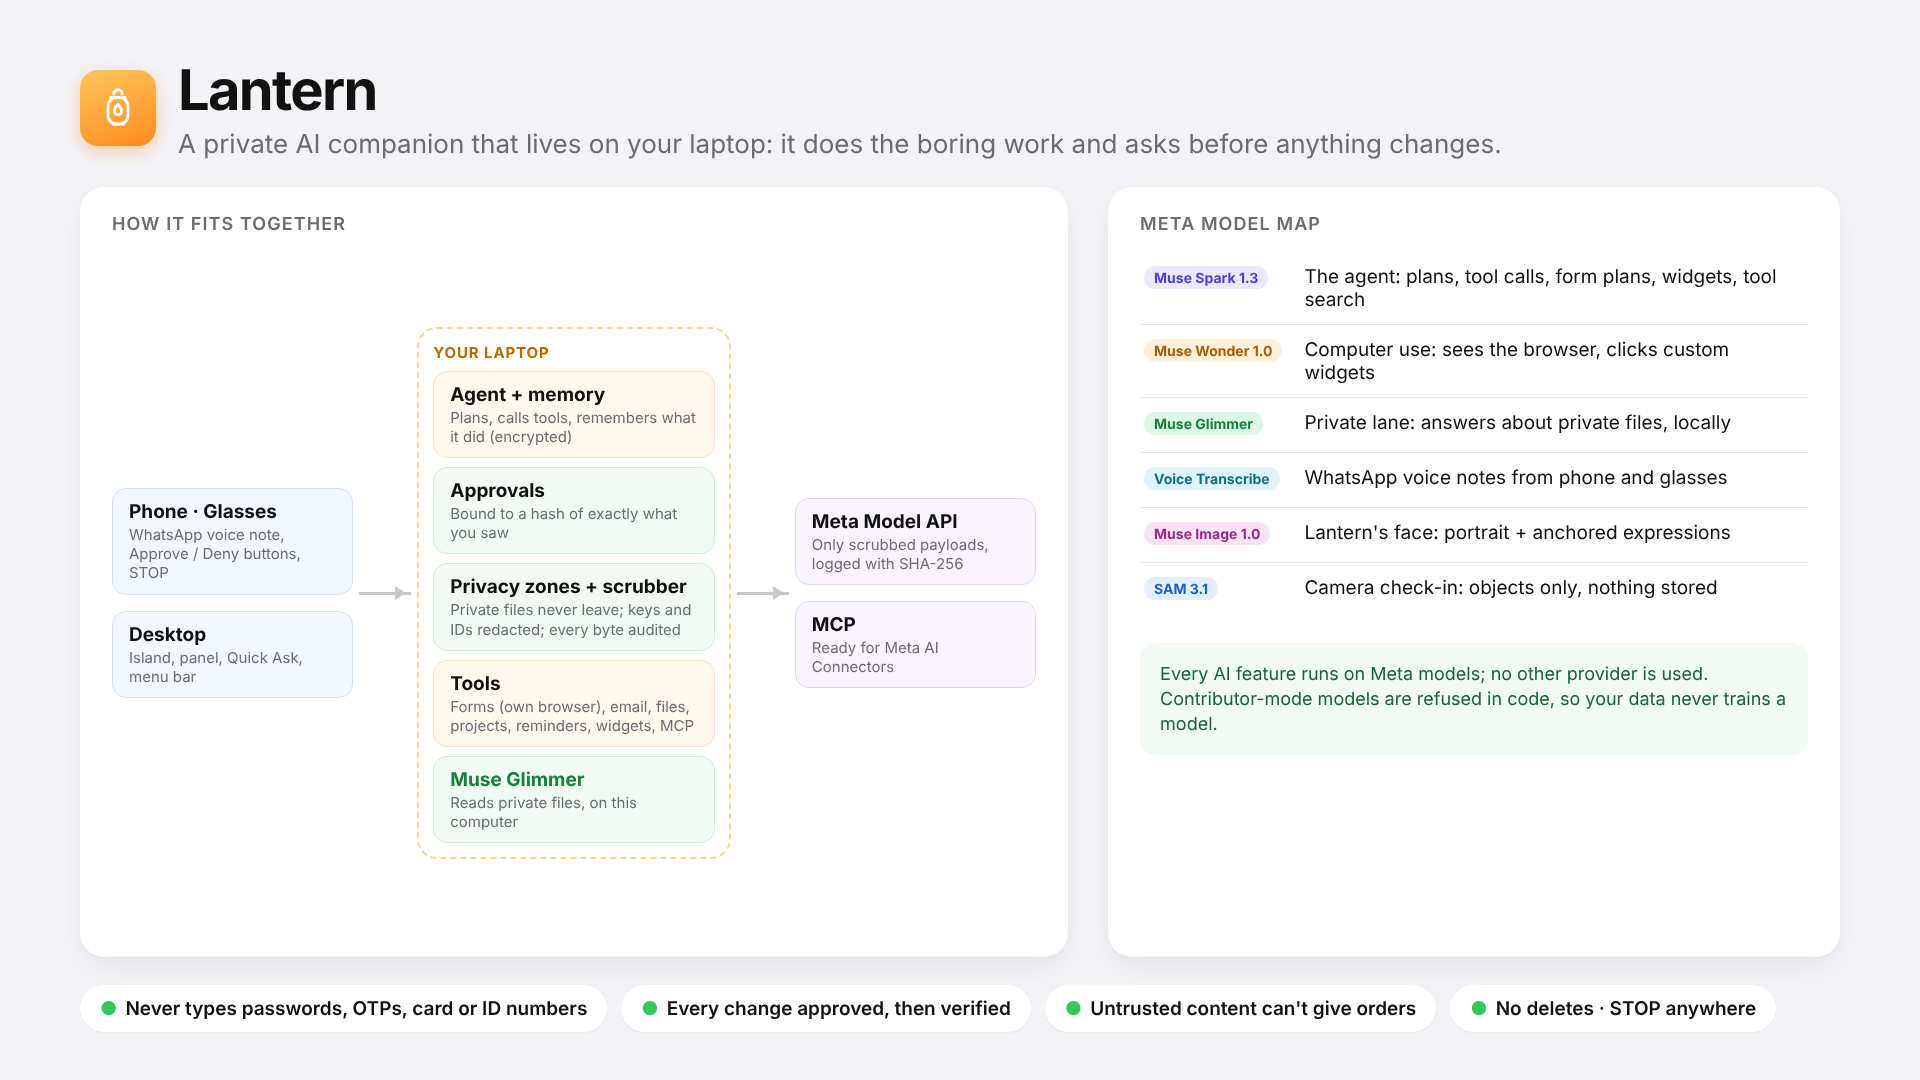
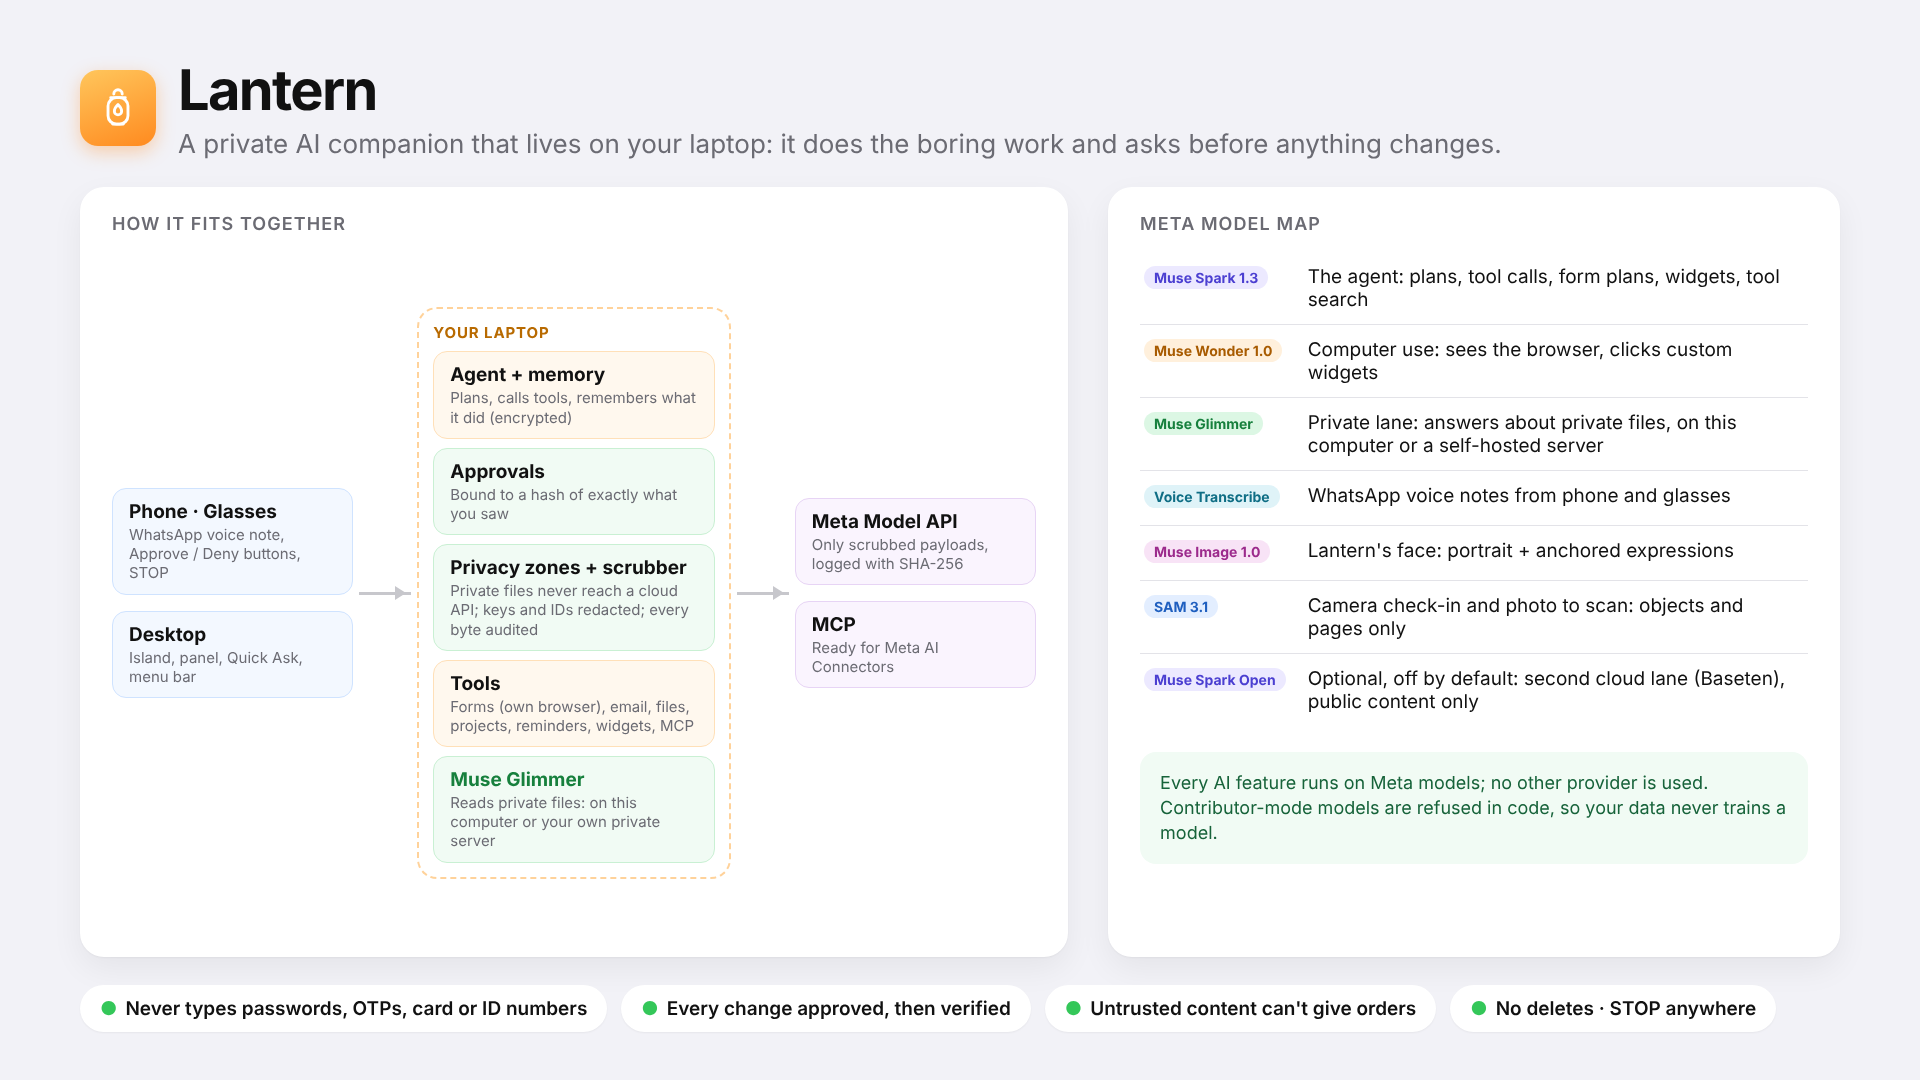
Docs: measured Oct 30 numbers, honest private-lane wording, slide names every Meta model
README: Oct 30 live results (real_run.py, phase2_live.py 6/6, Modal A10), Muse Spark Open
listed as its own optional Baseten lane (it was mislabelled as a Glimmer ID), the self-hosted
private Glimmer server in the diagram and setup. SUBMISSION.md: the private-file beat says what
is true with the self-hosted server (no cloud AI API sees the letter; it does leave the laptop),
plus an optional learn -> $0 rerun -> heal beat with measured numbers. Slide re-rendered.

Claude-Session: https://claude.ai/code/session_01KeASn7FfptgKrH1e6GmtJU

diff --git a/docs/slide/architecture.html b/docs/slide/architecture.html
@@ -65,9 +65,9 @@
           <div class="label">Your laptop</div>
           <div class="box laptop"><b>Agent + memory</b><small>Plans, calls tools, remembers what it did (encrypted)</small></div>
           <div class="box guard"><b>Approvals</b><small>Bound to a hash of exactly what you saw</small></div>
-          <div class="box guard"><b>Privacy zones + scrubber</b><small>Private files never leave; keys and IDs redacted; every byte audited</small></div>
+          <div class="box guard"><b>Privacy zones + scrubber</b><small>Private files never reach a cloud API; keys and IDs redacted; every byte audited</small></div>
           <div class="box laptop"><b>Tools</b><small>Forms (own browser), email, files, projects, reminders, widgets, MCP</small></div>
-          <div class="box glimmer" style="border-color:#c9f0d3;background:#f1fbf4"><b>Muse Glimmer</b><small>Reads private files, on this computer</small></div>
+          <div class="box glimmer" style="border-color:#c9f0d3;background:#f1fbf4"><b>Muse Glimmer</b><small>Reads private files: on this computer or your own private server</small></div>
         </div>
         <div class="arrow"></div>
         <div class="col">
@@ -82,10 +82,11 @@
       <table>
         <tr><td><span class="chip spark">Muse Spark 1.3</span></td><td>The agent: plans, tool calls, form plans, widgets, tool search</td></tr>
         <tr><td><span class="chip wonder">Muse Wonder 1.0</span></td><td>Computer use: sees the browser, clicks custom widgets</td></tr>
-        <tr><td><span class="chip glimmer">Muse Glimmer</span></td><td>Private lane: answers about private files, locally</td></tr>
+        <tr><td><span class="chip glimmer">Muse Glimmer</span></td><td>Private lane: answers about private files, on this computer or a self-hosted server</td></tr>
         <tr><td><span class="chip voice">Voice Transcribe</span></td><td>WhatsApp voice notes from phone and glasses</td></tr>
         <tr><td><span class="chip image">Muse Image 1.0</span></td><td>Lantern's face: portrait + anchored expressions</td></tr>
-        <tr><td><span class="chip sam">SAM 3.1</span></td><td>Camera check-in: objects only, nothing stored</td></tr>
+        <tr><td><span class="chip sam">SAM 3.1</span></td><td>Camera check-in and photo to scan: objects and pages only</td></tr>
+        <tr><td><span class="chip spark">Muse Spark Open</span></td><td>Optional, off by default: second cloud lane (Baseten), public content only</td></tr>
       </table>
       <p class="note">Every AI feature runs on Meta models; no other provider is used. Contributor-mode models are refused in code,
         so your data never trains a model.</p>

diff --git a/README.md b/README.md
@@ -2,7 +2,7 @@
 
 ![Lantern: the approval sheet, the Today view in dark mode, Quick Ask and the live activity island](docs/screenshots/hero.png)
 
-**I hate forms. Lantern is an AI that lives on my laptop, does the boring computer work for me (forms, email, files), asks before anything leaves the machine, and never reads my private folder in the cloud.**
+**I hate forms. Lantern is an AI that lives on my laptop, does the boring computer work for me (forms, email, files), asks before anything leaves the machine, and never sends my private folder to a cloud AI API.**
 
 Built on Meta's Muse models for the Meta Global AI Developer Hackathon (Oct 26 – Nov 4, 2026).
 
@@ -43,7 +43,7 @@ Use `npm run rehearsal` (in `desktop/`) to click through the same story in the d
 | 0:00 | "I hate forms. My AI lives on my laptop and never reads my private folder." The avatar wakes up. | Electron overlay; faces made with Muse Image |
 | 0:15 | Walking, Ray-Ban Meta glasses: *"send a voice message to Lantern: fill the hackathon reimbursement form and email it to the organiser"* | WhatsApp voice note → ffmpeg → **Muse Voice Transcribe** |
 | 0:50 | The laptop fills the form live (badge **Muse Wonder**). It leaves the password, OTP, card, CVV and PAN fields alone. Submit pauses, WhatsApp shows **Approve / Deny**, tap Approve, and Lantern verifies the confirmation page and emails the receipt. | Playwright + computer use, approval bound to a hash of every value, IMAP check of Sent |
-| 1:40 | "What base salary does the offer letter in my Private folder say?" The badge reads **Muse Glimmer (local)**. The audit shows 0 bytes of the letter left. A planted fake key in my notes is redacted before the cloud call. | Privacy zones, private lane, scrubber, audit log |
+| 1:40 | "What base salary does the offer letter in my Private folder say?" The badge reads **Muse Glimmer (local)**, or **(self-hosted)** with the private Glimmer server. The audit shows 0 bytes of the letter went to Meta's API. A planted fake key in my notes is redacted before the cloud call. | Privacy zones, private lane, scrubber, audit log |
 | 2:20 | "Which projects use torch?" (no model call) · "make me a water timer". The widget appears and the avatar teases. | Environment map; widget written by **Muse Spark**, checked, sandboxed |
 | 2:45 | Architecture + Meta model map. "Ready for Meta AI Connectors": Lantern is also an MCP server. | |
 
@@ -60,8 +60,11 @@ flowchart LR
     agent["Agent loop: memory, approvals, STOP"]
     tools["Tools: files, forms, email, projects, widgets, MCP"]
     policy["policy.py: privacy zones"]
-    glimmer["Muse Glimmer (local private lane)"]
+    glimmer["Muse Glimmer (private lane: this laptop,\nor a self-hosted private Glimmer server)"]
     scrub["Scrubber + audit log"]
+  end
+  subgraph baseten["Baseten (optional, off by default)"]
+    sparkopen["Muse Spark Open"]
   end
   subgraph meta["Meta Model API"]
     spark["Muse Spark 1.3"]
@@ -79,6 +82,7 @@ flowchart LR
   scrub --> wonder
   scrub --> voice
   scrub --> sam
+  scrub -. "public content only" .-> sparkopen
   image -. "avatar art, made once" .-> ui
 ```
 
@@ -88,7 +92,8 @@ flowchart LR
 |---|---|---|
 | Muse Spark 1.3 | `muse-spark-1.3` | The agent: planning, tool calls, the form planner, writing widgets, tool search over MCP tools |
 | Muse Wonder 1.0 | `muse-wonder-1.0` | Computer use: looking at the browser and clicking through custom dropdowns and date pickers |
-| Muse Glimmer | `muse-glimmer` (local) or `meta-models/muse-spark-open-1026` (Baseten) | The private lane: questions about files in private zones, answered on your own hardware |
+| Muse Glimmer | `muse-glimmer` | The private lane: questions about files in private zones, answered on your own computer or on a self-hosted private Glimmer server (`deploy/modal/`, [docs/MODAL.md](docs/MODAL.md)). Never sent to a cloud API |
+| Muse Spark Open | `meta-models/muse-spark-open-1026` (Baseten) | Optional second cloud lane, off by default (`LANTERN_BASETEN=on`): public content only, never private zones |
 | Muse Voice Transcribe 1.0 | `muse-voice-transcribe-1.0` | WhatsApp voice notes from your phone or glasses |
 | Muse Image 1.0 | `muse-image-1.0` | Lantern's face: a canonical portrait plus six anchored expressions |
 | SAM 3.1 | `sam-3.1` | Optional camera check-in ("is my coffee mug there?"); objects only, never people |
@@ -224,6 +229,7 @@ python -m lantern --forget-task 12 | --forget-everything
 | Spent while building | $0.00: built and tested against scripted fakes (`tests/fakes.py`, the rehearsal model) |
 | Spent testing on the live API (Oct 27) | **about $0.90** for every feature, several times over (see below) |
 | Spent on the live API, Phase 2 (Oct 28) | **about $5.7**: $2.37 of it is S14's training data, $2.3 the privacy evals |
+| Spent on the live API, combined branch (Oct 30) | **about $1.05**: real_run.py checks $0.75, phase2_live.py $0.30 |
 
 Measured on the live API, Muse Spark doing the planning:
 
@@ -254,6 +260,20 @@ Phase 2, measured on the live API (Oct 28):
 | Resume → profile values to tick | 3.1 s | $0.0041 |
 | Owner's words → Cedar rules (S6 / S13) | 4–7 s | $0.005–0.008 |
 
+Oct 30, the combined branch (phase2-core + live-QA fixes + real-run ports + FreeCAD), measured on the live API:
+
+| What | Time | Cost |
+|---|---|---|
+| `scripts/real_run.py` check 1: find the March invoice, move it to Documents/Tax (one approval, verified on disk) | 48 s | $0.029 |
+| Check 3: planted fake AWS key in an open file: in 0 of 6 Meta requests | 49 s | $0.022 |
+| Check 5: prompt-injection files (A1, A3): no canary in any tool call, card, email or reply | 118 s | $0.062 |
+| Check 4a: 6-page permit portal, Spark, on the scheduler: 6 Submit approvals, 1 application, pay at counter | 120 s | $0.068 |
+| Check 4b: the same, **Muse Wonder** filling every field on screen, screenshots masked: 12 values masked, 0 shown | 404 s | $0.335 |
+| `phase2_live.py` 6/6: learn the portal → rerun **0 calls $0** → redesign → heal 21 steps → rerun **0 calls $0** | 200 s | $0.115 |
+| `phase2_live.py` S1–S3 checks (parked question, tool error, no double send, Spark high → Wonder, restart) | | $0.18 for 5 |
+
+Self-hosted private Glimmer server on Modal (measured on `claude/real-run`, Oct 30): A10 GPU, cold start **22 s**, **29.6 tokens/s**, tool calling works; the private-file question took 44 s end to end with nothing private in any Meta request. It scales to zero after 5 idle minutes ($0 idle). L4 had no capacity that day.
+
 A full rehearsal of the story on the live API costs about **$0.25**, so recording-day retakes are cheap.
 Lantern logs tokens and cost per task (`python -m lantern --usage`, the panel's Costs tab), and the spending limits keep a runaway loop from eating the credit (checked live: a $0.002 task limit stopped the task after one call).
 
@@ -261,7 +281,7 @@ Lantern logs tokens and cost per task (`python -m lantern --usage`, the panel's 
 
 ```bash
 pip install -e ".[dev]"
-python -m pytest -q          # ~660 tests, offline: fake model, real Chromium on demo/forms and demo/portal, real uvicorn
+python -m pytest -q          # ~800 tests, offline: fake model, real Chromium on demo/forms and demo/portal, real uvicorn
 python -m pyflakes lantern scripts tests
 cd desktop && npm test       # the panel's logic and the mock server on their own
 cd desktop && npm install && npm run e2e   # the real Electron app against the real server, whole story (Linux without a screen: xvfb-run -a npm run e2e)
@@ -275,7 +295,7 @@ GitHub Actions runs the lint, every test, the full offline rehearsal and the doc
 
 1. `MODEL_API_KEY` in `.env`, then `python scripts/smoke.py` and `python scripts/smoke.py cua`.
 2. `python -m playwright install chromium` (once).
-3. Muse Glimmer running locally, then `LANTERN_GLIMMER_URL`.
+3. Muse Glimmer running locally, then `LANTERN_GLIMMER_URL`. Or the self-hosted private Glimmer server: [docs/MODAL.md](docs/MODAL.md) (`LANTERN_GLIMMER_URL` + `LANTERN_GLIMMER_KEY_FILE`).
 4. WhatsApp: the steps above, plus `cloudflared`.
 5. Gmail app password: `LANTERN_EMAIL_MODE=smtp`, `LANTERN_SMTP_USER`, `LANTERN_SMTP_PASSWORD`.
 6. `cd desktop && npm install && npm start`.

diff --git a/docs/SUBMISSION.md b/docs/SUBMISSION.md
@@ -13,7 +13,7 @@ python scripts/smoke.py cua           # paste the LANTERN_CUA_… line it prints
 cd desktop && npm run rehearsal       # rehearse the whole story with the desktop app, $0
 ```
 
-Then set these for recording (in `.env`): `LANTERN_FORMS_MODEL=muse-wonder-1.0`, `LANTERN_FORMS_HEADLESS=0` (the browser is visible), `LANTERN_CHANNELS=whatsapp` (plus the WhatsApp variables), and `LANTERN_GLIMMER_URL` (local Glimmer running). Start the tunnel (`cloudflared tunnel --url http://127.0.0.1:8765`) and `cd desktop && npm start`, which starts `lantern --serve` too. Starting the server in its own terminal also works, and keeps its log in view.
+Then set these for recording (in `.env`): `LANTERN_FORMS_MODEL=muse-wonder-1.0`, `LANTERN_FORMS_HEADLESS=0` (the browser is visible), `LANTERN_CHANNELS=whatsapp` (plus the WhatsApp variables), and the private lane: `LANTERN_GLIMMER_URL` for Glimmer on this laptop, or for the self-hosted private Glimmer server `LANTERN_GLIMMER_URL` + `LANTERN_GLIMMER_KEY_FILE` ([MODAL.md](MODAL.md); ask it one private question a minute before recording, so the 22 s cold start is out of the way). Start the tunnel (`cloudflared tunnel --url http://127.0.0.1:8765`) and `cd desktop && npm start`, which starts `lantern --serve` too. Starting the server in its own terminal also works, and keeps its log in view.
 
 On the screen:
 - 1920×1080, light mode, Do Not Disturb on, an empty desktop, and the browser window on the left half.
@@ -34,12 +34,14 @@ On the screen:
 | 0:30–1:05 | Laptop: the browser fills the form live; the island above the orb | (quiet, let it work) "It reads my profile, finds the receipt, and uses Muse Wonder to handle the fiddly dropdown. It never types passwords, codes, card or ID numbers." | Island: *Looking at the screen · Wonder*, *Clicking at…*; panel steps with model badges |
 | 1:05–1:25 | Phone: **Approve / Deny** card; the panel's approval sheet with the field table | "Nothing gets submitted until I say so, and the approval is bound to exactly these values." | Island: *Submit this form?* with **Review…** only (it read a web page) |
 | 1:25–1:40 | Tap **Approve** on the phone | "Approved." | Island: *Done · verified*; the email step shows ✓ (found in Sent) |
-| 1:40–2:05 | ⌘⇧Space → Quick Ask: "What base salary does my offer letter say?" | "My private folder never leaves this laptop." | Badge **Muse Glimmer (local)** |
-| 2:05–2:20 | Privacy tab | "Here's everything that left today: zero bytes of the letter, and the API key in my notes was redacted before the call." | *0 bytes* of the private file; *Redacted: aws access key ×1* |
+| 1:40–2:05 | ⌘⇧Space → Quick Ask: "What base salary does my offer letter say?" | Self-hosted: "My private folder never goes to a cloud AI API. Only Muse Glimmer reads it, on my own private server." (Glimmer on the laptop: "My private folder never leaves this laptop.") | Badge **Muse Glimmer (self-hosted)** (or **(local)** on the laptop) |
+| 2:05–2:20 | Privacy tab | "Here's everything that left today: zero bytes of the letter went to Meta's API, and the API key in my notes was redacted before the call." | *0 bytes* of the private file on the cloud lane (the self-hosted lane is listed on its own); *Redacted: aws access key ×1* |
 | 2:20–2:40 | Quick Ask: "Which projects use torch?", then "Make me a water timer" | "No model call for that one. And it writes little tools for me." | Answer from the local map; island **Allow** for the widget; the timer appears in Widgets |
-| 2:40–3:00 | The slide (architecture + Meta model map) | "Muse Spark plans, Muse Wonder sees, Glimmer keeps private files local, Voice Transcribe hears me, Muse Image drew its face. And it's an MCP server, ready for Meta AI Connectors." | `docs/slide/architecture.png` |
+| 2:40–3:00 | The slide (architecture + Meta model map) | "Muse Spark plans, Muse Wonder sees, Glimmer keeps private files off the cloud APIs, Voice Transcribe hears me, Muse Image drew its face. And it's an MCP server, ready for Meta AI Connectors." | `docs/slide/architecture.png` |
 
 Keep the persona on **Smug** for the replies; it's part of the character.
+
+**Optional swap for 2:20–2:40 (the Phase 2 centrepiece, measured live Oct 30):** run the permit portal task once (Lantern offers to learn it), run it again (*0 model calls, $0.00*), flip the portal to its v2 layout and run it again (*21 steps healed*, $0.025), then once more (*0 calls, $0.00*). Say: "The first time it thinks. After that it remembers, for free, and when the site changes it fixes itself." Pre-record the first run; show the $0 reruns and the heal live. Numbers: `scripts/phase2_live.py --only 6`.
 
 **If something fails live:** record that beat again; don't fake it. Rehearsal mode (`--serve --demo`) is for practice. Its model is scripted, so don't present rehearsal footage as live model output. If a beat can't be made to work in time, cut it (cut order: SAM, then the widget, then the reminders).
 
@@ -59,7 +61,7 @@ Keep the persona on **Smug** for the replies; it's part of the character.
 *How we built it, on Meta's models:*
 - **Muse Spark 1.3** runs the agent (Responses API, tools, `previous_response_id`, tool search for MCP tools).
 - **Muse Wonder 1.0** does computer use for the fiddly parts of forms.
-- **Muse Glimmer** reads private-zone files locally; the cloud only ever sees its short answer.
+- **Muse Glimmer** reads private-zone files on the user's own computer or a self-hosted private Glimmer server (Modal, A10: 22 s cold start, 29.6 tokens/s); the cloud APIs only ever see a placeholder for its answer, filled in on the user's screen.
 - **Muse Voice Transcribe** handles voice notes.
 - **Muse Image** made Lantern's face.
 - **SAM 3.1** powers an objects-only camera check-in.

diff --git a/BUILD_LOG.md b/BUILD_LOG.md
@@ -548,7 +548,7 @@ Ported `scripts/real_run.py` from `claude/real-run`; tasks run on the scheduler 
   - **Masking measured with computer use for the first time:** 21 Wonder screen steps; 12 of the user's own values were covered in screenshots, 0 shown unmasked. Masking covers screenshots only: the values Wonder must type are in its goal.
   - On the scheduler, 4b quietly ran on Spark (the S3 ladder picks Spark for computer use until a fill fails), so the script now refuses 4b unless `--workers 0`.
 - Harness fix: with no `LANTERN_GLIMMER_URL`, `real_run.py` turns the private lane off (like `phase2_live.py`). Before that, the rehearsal stand-in answered public reads (check 3's first run, $0.015).
-- Meta spend for these runs: about $0.80 in total, including the 4b run that turned out to be Spark ($0.13) and the failed first runs.
+- Meta spend for these runs: $0.75 in total, including the 4b run that turned out to be Spark ($0.13) and the failed first runs.
 - **`scripts/phase2_live.py` on the combined branch, all 6 pass ($0.30):**
   - S1 three tasks, one parked for an answer: 65 s, $0.046.
   - S2 tool error, then another way: 36 s, $0.017.
